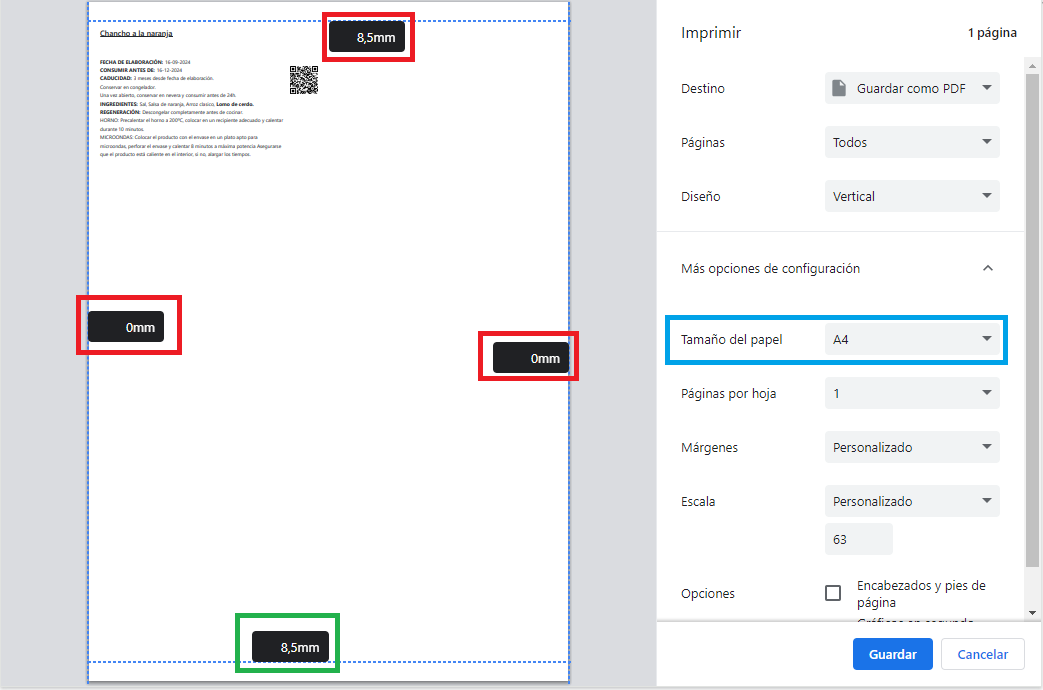
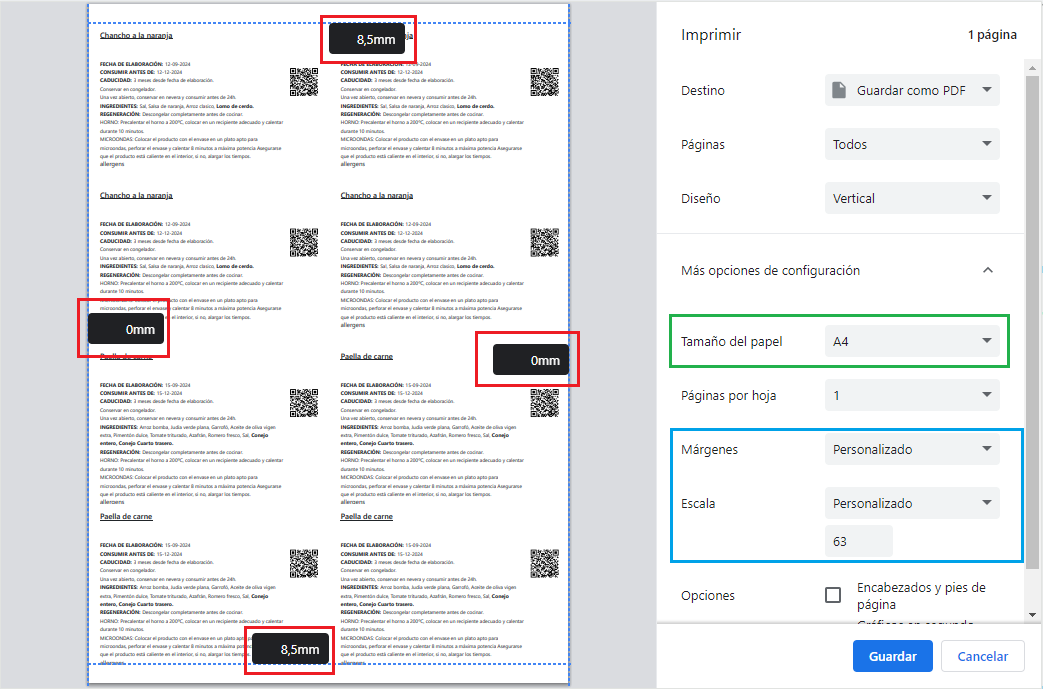
guia de impresion

diff --git a/resources/js/src/pages/recipes.vue b/resources/js/src/pages/recipes.vue
@@ -17,6 +17,7 @@
   import { ADD_TO_CART } from "@/core/services/store/cart.module";
   import buyCart from "@/layouts/components/BuyCart.vue";
   import printTags from "@/layouts/components/PrintTags.vue";
+  import printGuide from '@/views/recipes/printGuide.vue';
   import flatpickr from "flatpickr";
   import 'flatpickr/dist/flatpickr.min.css'
   import { Spanish } from "flatpickr/dist/l10n/es.js"
@@ -163,7 +164,6 @@
           <h2>No tienes recetas creadas</h2>
         </VCard>
       </template>
-
     </VCol>
     <div v-if="isRecipe" >
       <div class="modal animate__animated animate__slideInLeft"  id="viewRecipe" tabindex="-1" aria-labelledby="cancelOrderLabel" aria-hidden="true">
@@ -978,6 +978,9 @@
                                 <p class="text-secondary pa-0 ma-0 mt-2">
                                   <b class=""> •  Escala: 63%</b> 
                                 </p>
+                                <p class="text-primary text-decoration-underline font-weight-bold pa-0 ma-0 mt-2 cursor-pointer" @click="viewGuide()"> 
+                                  Ver Guia
+                                </p>
                               </div>
                             </div>
                           </VCol>
@@ -1380,6 +1383,7 @@
     </v-navigation-drawer>  
     <buyCart v-if="getCurrentAccount.rol_id == 3" />  
     <printTags @hide="hideModal()" v-if="getCurrentAccount.rol_id && getCurrentAccount.rol_id !== 3" />
+    <printGuide />
   </VRow>
 </template>
 
@@ -1533,6 +1537,9 @@
           })
 
       },
+      viewGuide(){
+        this.emitter.emit('showOnGuide')
+      },
       searchProductsForRecipe(e, index){ 
         debounce(this.getProducts, 200)(e.target.value, index)
       },
@@ -1631,7 +1638,7 @@
                     message: "La descripción es necesaria"
                   },
                   regexp: {
-                    regexp: /^[A-Za-z0-9À-ÿ .*-+,°\n:/z\-&@$_ñ_ ]+$/i,
+                    regexp: /^[A-Za-z0-9À-ÿ .*-+,º°ª\n:/z\-&@$_ñ_ ]+$/i,
                     message: 'No debe contener los siguientes caracteres: "[]{}!¡¿?=()|;',
                   },
                 }
@@ -1716,7 +1723,7 @@
                     message: "La descripción es necesaria"
                   },
                   regexp: {
-                    regexp: /^[A-Za-z0-9À-ÿ .*-+,°\n:/z\-&@$_ñ_ ]+$/i,
+                    regexp: /^[A-Za-z0-9À-ÿ .*-+,º°ª\n:/z\-&@$_ñ_ ]+$/i,
                     message: 'No debe contener los siguientes caracteres: "[]{}!¡¿?=()|;',
                   },
                 }

diff --git a/resources/js/src/views/recipes/printGuide.vue b/resources/js/src/views/recipes/printGuide.vue
@@ -18,7 +18,7 @@
                     <v-btn icon="mingcute:close-fill" class="bg-secondary" @click="hideModal()" ></v-btn>
                   </v-col>
                 </div>
-                <div class="d-flex justify-space-between  flex-column pa-2 px-4 pa-md-5 ">
+                <div class="d-flex justify-space-between  flex-column  ">
                   <VCardItem class="justify-center w-100  py-md-6  py-4 pb-0   ">
                     <VCardTitle class="text-2xl font-weight-bold">
                       <div class="card-title d-flex ">
@@ -29,9 +29,24 @@
                   <div>
                     <VCardItem class="w-100  py-md-0  py-4 text-center px-0" >
                       <VCardTitle class="text-2xl font-weight-bold">
-                        <img :src="guideImg" alt="">
+                        <img :src="guideImg" alt="" style="width: 109%; transform: translateX(-7.5%);">
                       </VCardTitle>
                     </VCardItem>
+                    <div class="w-100  py-md-0 py-md-4 d-flex items-center mt-md-8  justify-md-center px-2 pa-md-5"  style="flex-wrap: wrap;">
+                      <div class="d-flex items-center mx-md-10 mt-md-0 mt-4 mx-2" >
+                        <div class="box_legend bg-margen"></div>
+                        <div class="ms-1 text-black">Margenes</div>
+                      </div>
+                      <div class="d-flex items-center mx-md-10 mt-md-0 mt-4 mx-2" >
+                        <div class="box_legend bg-paper"></div>
+                        <div class="ms-1 text-black">Tamaño de papel</div>
+                      </div>
+                      <div class="d-flex items-center mx-md-10 mt-md-0 mt-4 mx-2" >
+                        <div class="box_legend bg-blue"></div>
+                        <div class="ms-1 text-black">Escala</div>
+                      </div>
+
+                    </div>
                   </div>
                 </div>
               </VCard>
@@ -77,3 +92,21 @@
 
   };
 </script>
+<style lang="scss" scoped>
+.box_legend{
+  height: 20px;
+  width: 20px;
+  border-radius: 2px;
+}
+.bg-{
+  &margen{
+    background: #ed1c24;
+  }
+  &paper{
+    background: #22b14c;
+  }
+  &blue{
+    background: #00a2e8;
+  }
+}
+</style>

diff --git a/resources/js/src/layouts/components/PrintTags.vue b/resources/js/src/layouts/components/PrintTags.vue
@@ -129,7 +129,7 @@
                             <p class="text-secondary pa-0 ma-0 mt-2">
                               <b class=""> •  Escala: 63%</b> 
                             </p>
-                            <p class="text-primary text-decoration-underline font-weight-bold pa-0 ma-0 mt-2 cursor-pointer"> 
+                            <p class="text-primary text-decoration-underline font-weight-bold pa-0 ma-0 mt-2 cursor-pointer" @click="viewGuide()"> 
                               Ver Guia
                             </p>
                           </div>
@@ -217,6 +217,9 @@
             });
           })
 
+      },
+      viewGuide(){
+        this.emitter.emit('showOnGuide')
       },
       searchRecipeToPrint(e, index){ 
         debounce(this.getRecipeToPrint, 200)(e.target.value, index)

diff --git a/resources/js/src/pages/products.vue b/resources/js/src/pages/products.vue
@@ -1116,7 +1116,6 @@
       itemsValidateByForm(id){
         let fieldByForm = {}
         switch (id) {
-
           case 'edit_product_form':
             fieldByForm = {
               
@@ -1144,7 +1143,7 @@
                     message: "La descripción es necesaria"
                   },
                   regexp: {
-                    regexp: /^[A-Za-z0-9À-ÿ .*-+,°\n:/z\-&@$_ñ_ ]+$/i,
+                    regexp: /^[A-Za-z0-9À-ÿ .*-+,º°ª\n:/z\-&@$_ñ_ ]+$/i,
                     message: 'No debe contener los siguientes caracteres: "[]{}!¡¿?=()|;',
                   },
                 }

diff --git a/resources/js/src/views/products/viewCreateProduct.vue b/resources/js/src/views/products/viewCreateProduct.vue
@@ -345,8 +345,6 @@
       stepperNewProduct: 1,
       steps: 2,
       modal:''
-
-
     }),
     methods:{
       getProducts(search = "", index){
@@ -611,7 +609,7 @@
                     message: "La descripción es necesaria"
                   },
                   regexp: {
-                    regexp: /^[A-Za-z0-9À-ÿ .*-+,°\n:/z\-&@$_ñ_ ]+$/i,
+                    regexp: /^[A-Za-z0-9À-ÿ .*-+,º°ª\n:/z\-&@$_ñ_ ]+$/i,
                     message: 'No debe contener los siguientes caracteres: "[]{}!¡¿?=()|;',
                   },
                 }
